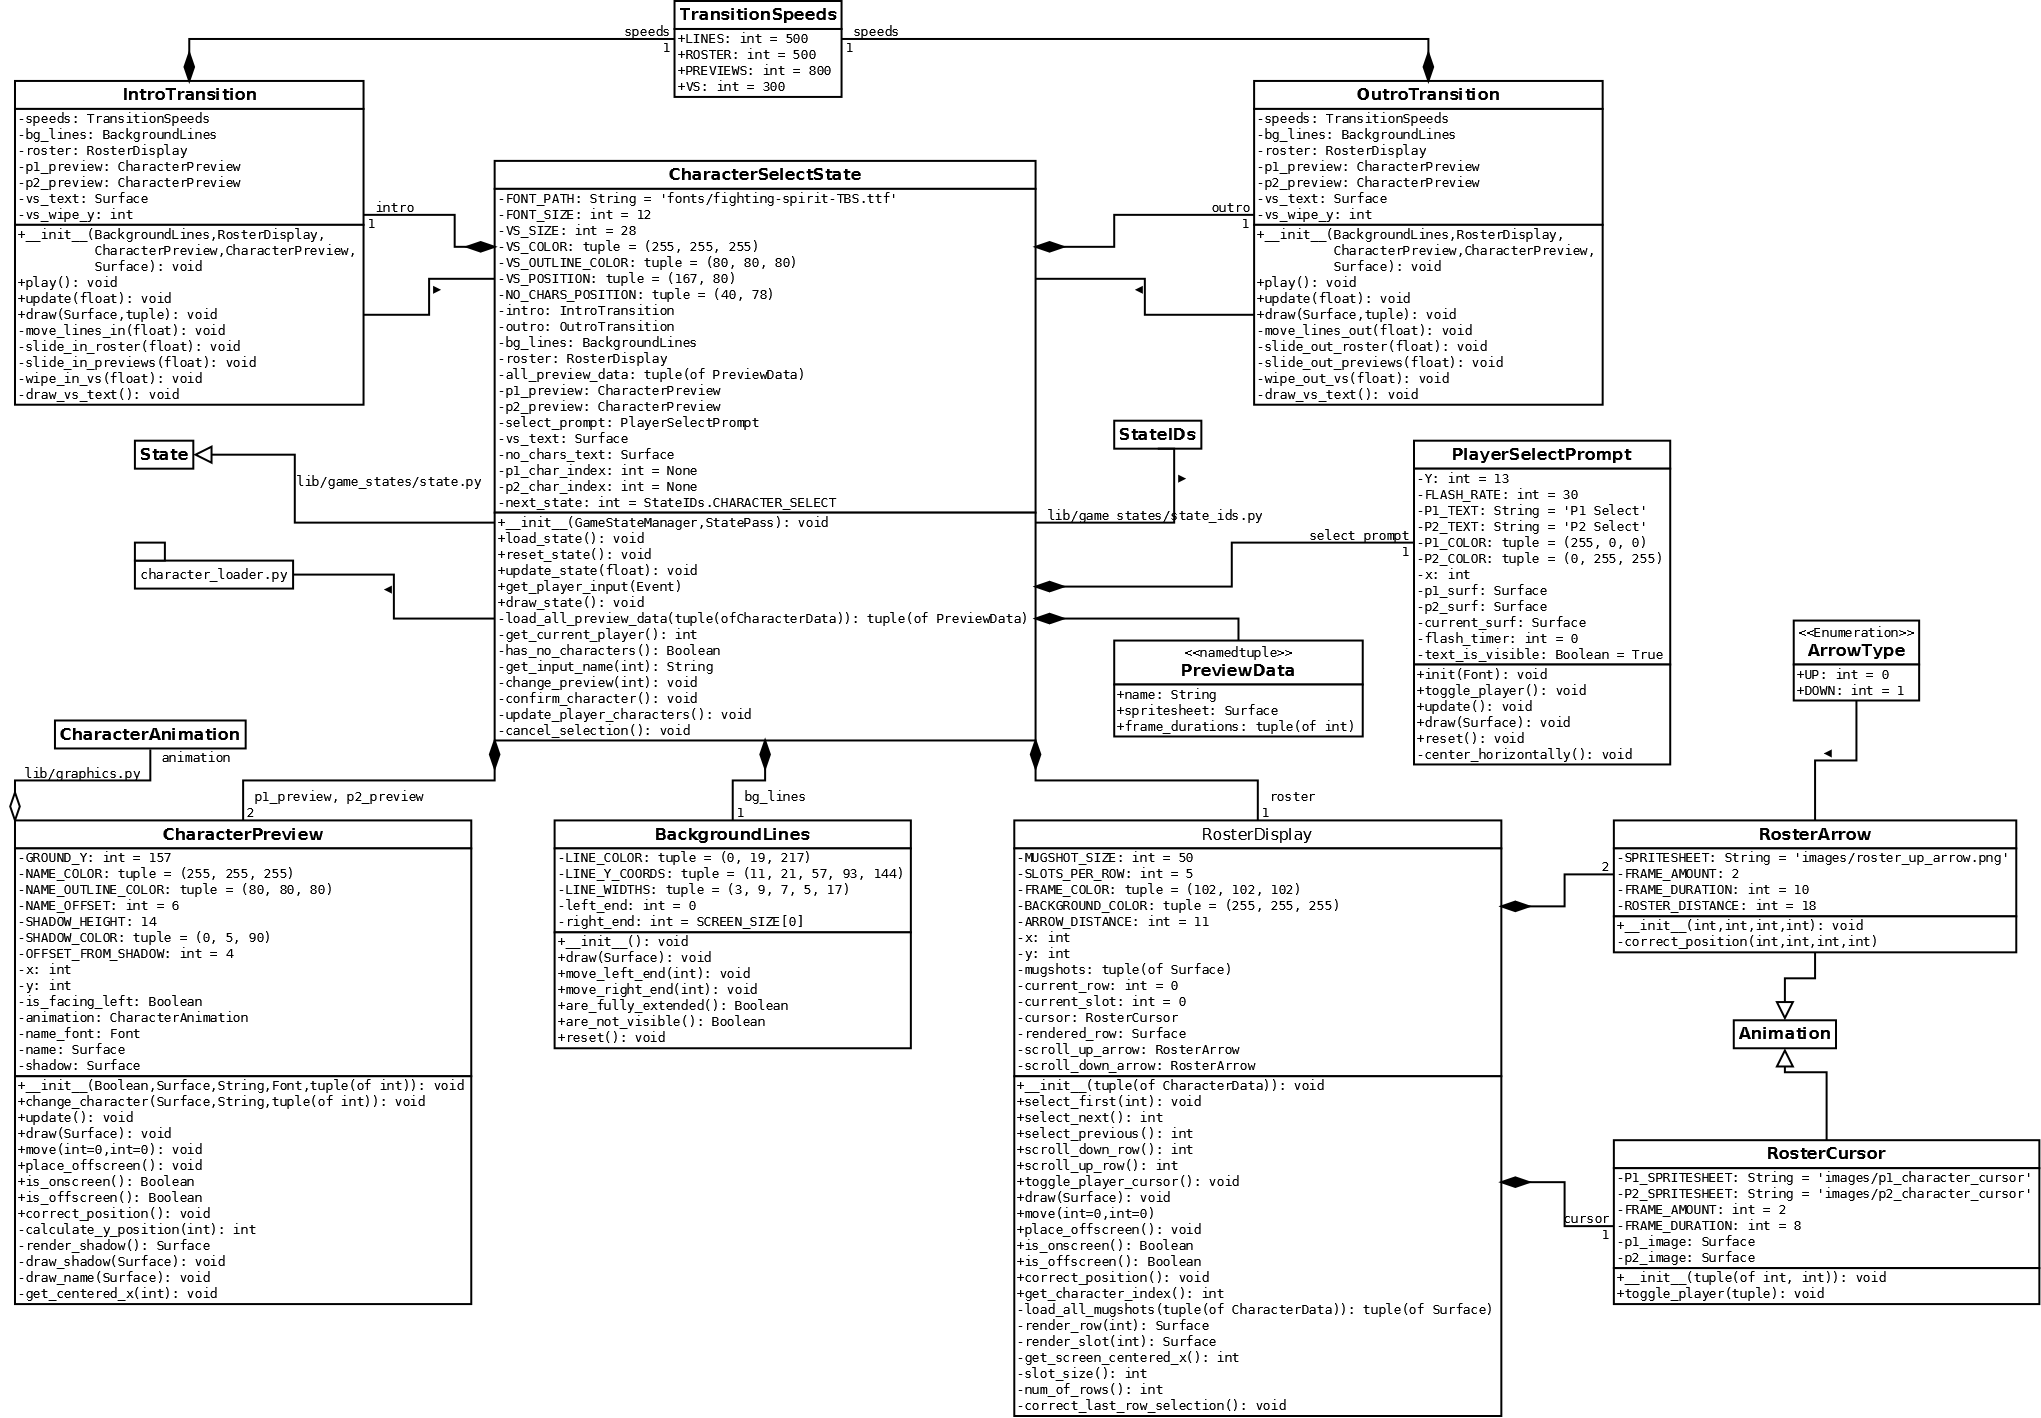
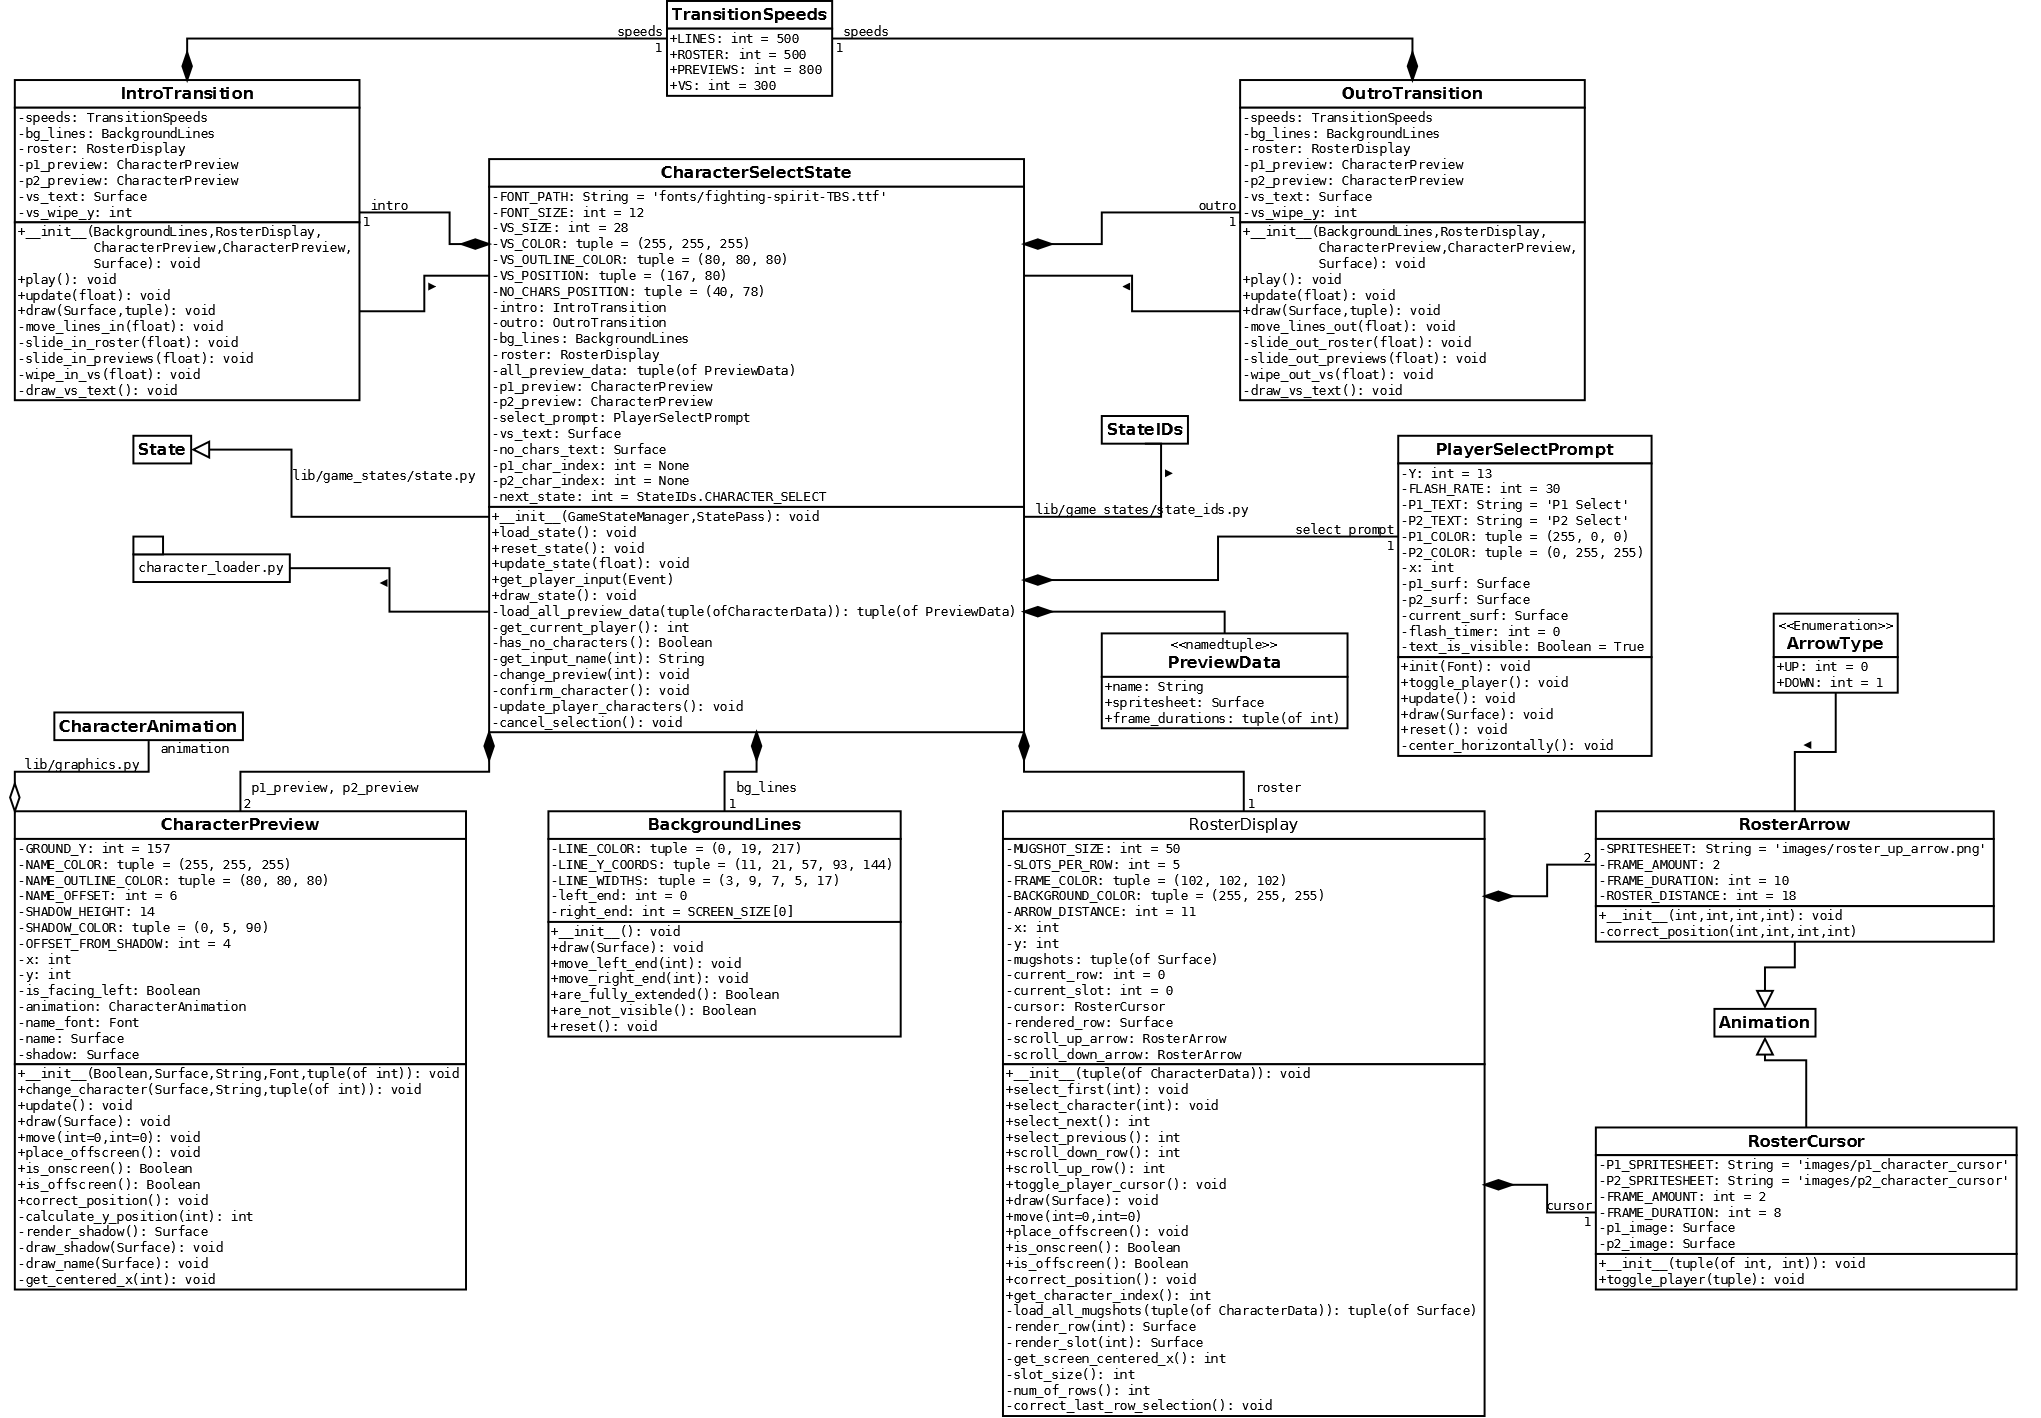
RosterDisplay: Add select_character()

diff --git a/lib/game_states/character_select_state.py b/lib/game_states/character_select_state.py
@@ -644,6 +644,23 @@ class RosterDisplay():
         self.current_slot = 0
         self.rendered_row = self.render_row(0)
 
+    def select_character(self, character_index):
+        """Move selection to a specific character.
+
+        Args:
+            character_index: An integer for the index of the character.
+                This index is based on the order of the character file
+                paths in the character list text file.
+        """
+        row = int(character_index / self.SLOTS_PER_ROW)
+        new_slot = character_index - (self.SLOTS_PER_ROW * row)
+        slot_diff = new_slot - self.current_slot
+
+        self.current_row = row
+        self.current_slot = new_slot
+        self.rendered_row = self.render_row(row)
+        self.cursor.move(self.slot_size() * slot_diff, 0)
+
     def select_next(self):
         """Select the next character slot, if there is one."""
         if self.get_character_index() < len(self.mugshots) - 1:
